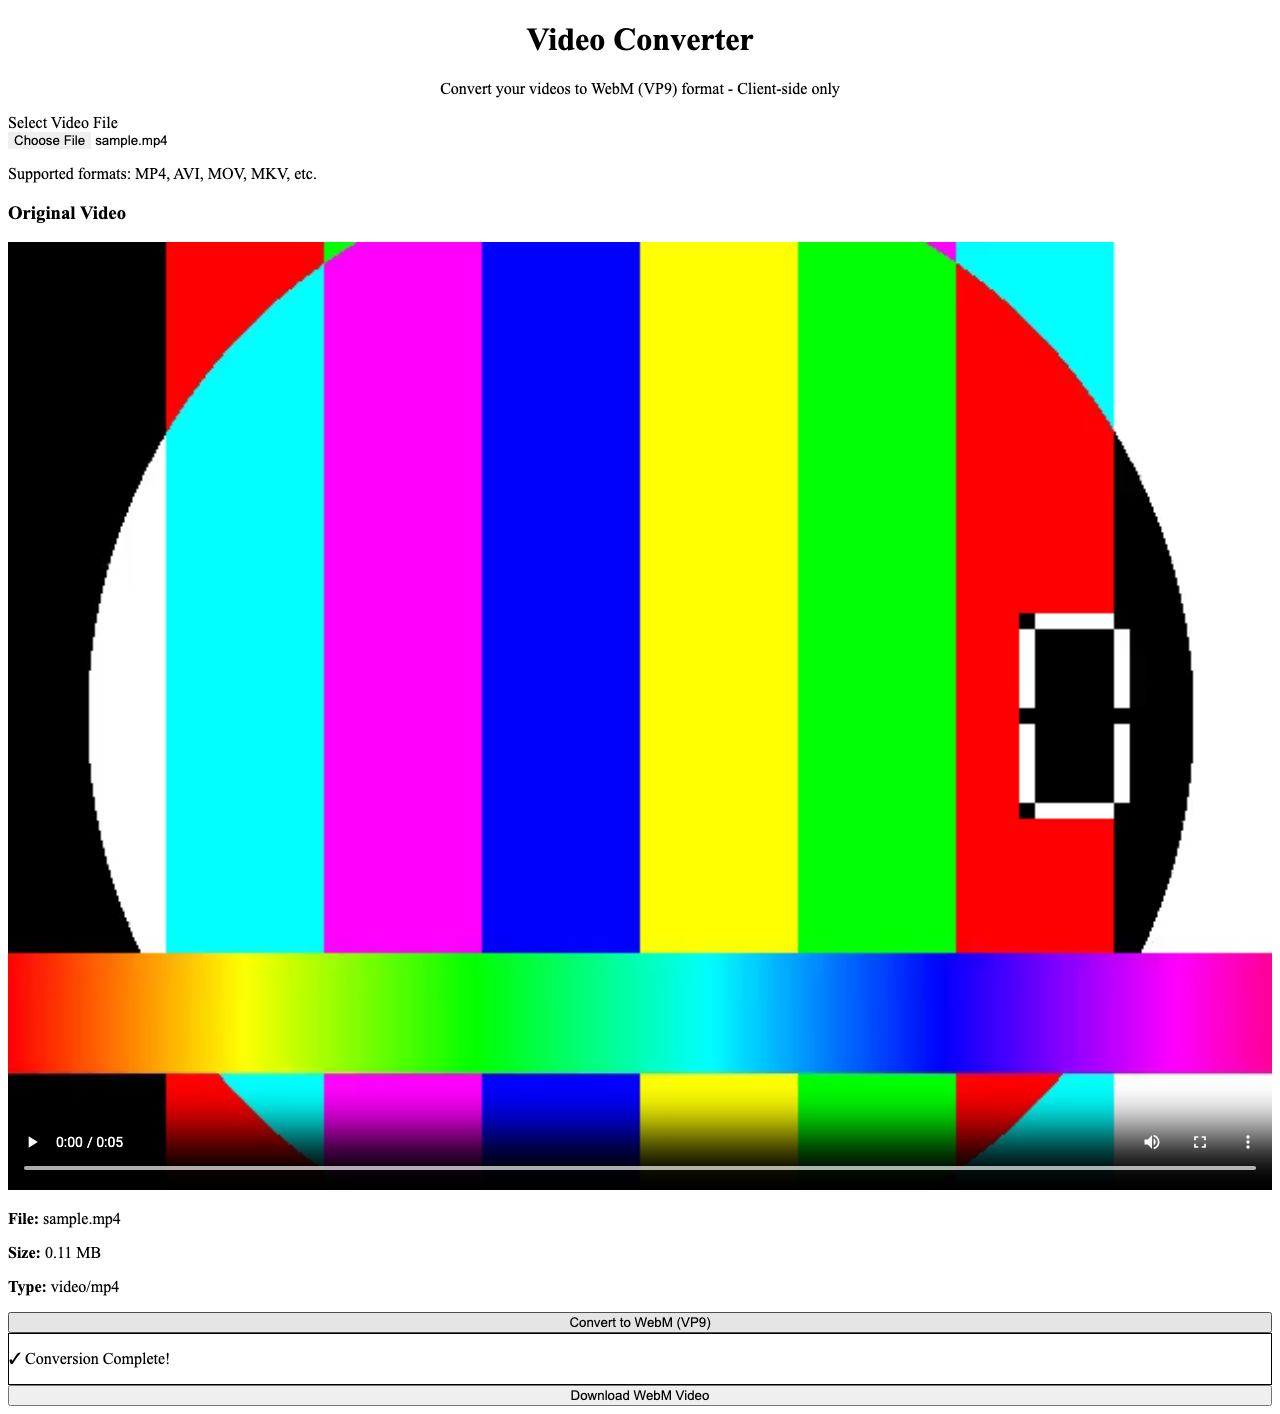
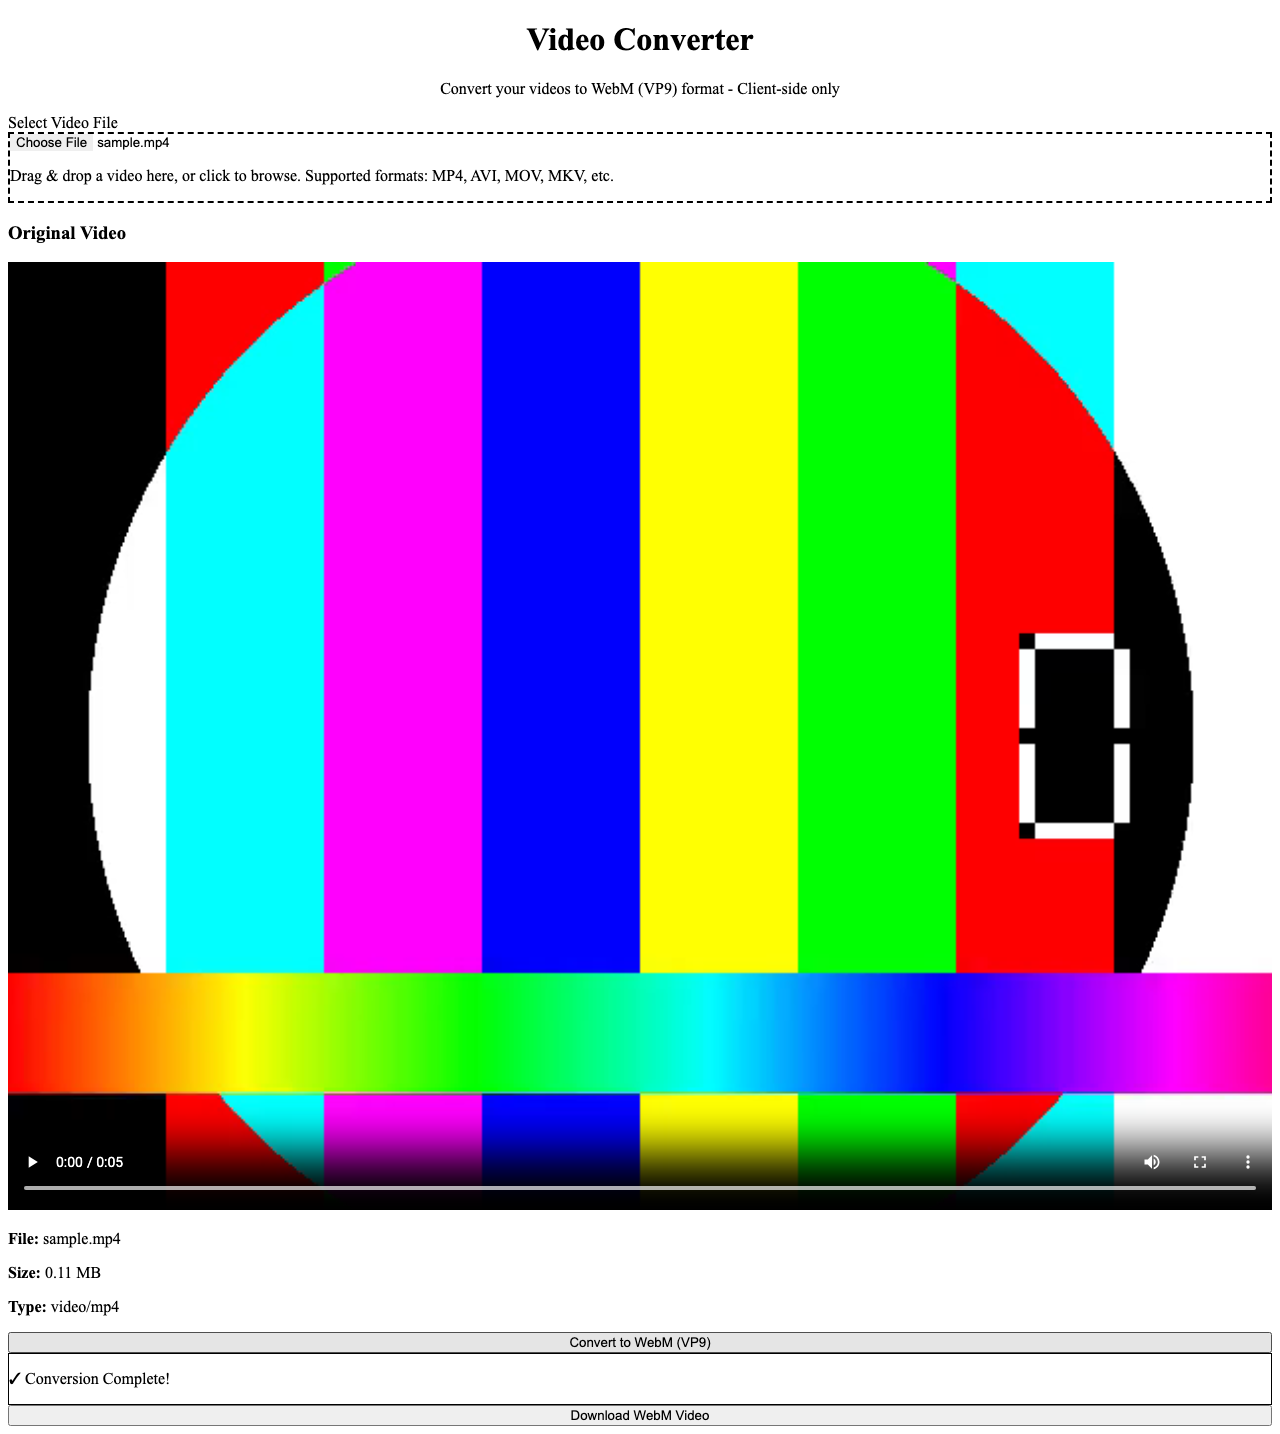
feat: add cancel functionality to video conversion process
- Implemented cancel method in VideoConverter to terminate ongoing conversions.
- Updated handleConvert function to enable/disable cancel button during conversion.
- Added event listener for cancel button to handle cancellation and reset UI state.
- Enhanced UI elements to include drop zone for drag-and-drop file selection.
- Improved user feedback by showing error messages and hiding progress on cancellation.

diff --git a/src/main.ts b/src/main.ts
@@ -2,10 +2,14 @@ import "./style.css";
 import { VideoConverter } from "./converter";
 import {
   getUIElements,
+  hideProgress,
   hideDownload,
   hideError,
   showError,
   showPreview,
+  setDropZoneActive,
+  setCancelEnabled,
+  setConvertBtnState,
   displayVideoInfo,
 } from "./ui";
 import { isValidVideoFile, createPreviewURL, displayVideoPreview } from "./fileHandler";
@@ -21,10 +25,18 @@ let convertedBlob: Blob | null = null;
 
 // Get UI elements
 const elements = getUIElements();
+setCancelEnabled(elements, false);
 
 // Event listeners
 if (elements.videoInput) {
   elements.videoInput.addEventListener("change", handleFileSelect);
+}
+
+if (elements.dropZone) {
+  elements.dropZone.addEventListener("dragenter", handleDragEnter);
+  elements.dropZone.addEventListener("dragover", handleDragOver);
+  elements.dropZone.addEventListener("dragleave", handleDragLeave);
+  elements.dropZone.addEventListener("drop", handleDrop);
 }
 
 if (elements.convertBtn) {
@@ -43,6 +55,10 @@ if (elements.downloadBtn) {
   });
 }
 
+if (elements.cancelBtn) {
+  elements.cancelBtn.addEventListener("click", handleCancel);
+}
+
 // Load FFmpeg on app init
 converter.load().catch((error) => {
   console.error("Failed to load FFmpeg:", error);
@@ -53,6 +69,49 @@ function handleFileSelect(event: Event): void {
   const input = event.target as HTMLInputElement;
   const file = input.files?.[0];
 
+  if (!file) return;
+
+  processSelectedFile(file);
+}
+
+function handleDragEnter(event: DragEvent): void {
+  event.preventDefault();
+  setDropZoneActive(elements, true);
+}
+
+function handleDragOver(event: DragEvent): void {
+  event.preventDefault();
+  setDropZoneActive(elements, true);
+}
+
+function handleDragLeave(): void {
+  setDropZoneActive(elements, false);
+}
+
+function handleDrop(event: DragEvent): void {
+  event.preventDefault();
+  setDropZoneActive(elements, false);
+
+  const file = event.dataTransfer?.files?.[0];
+  if (!file) return;
+
+  processSelectedFile(file);
+}
+
+function handleCancel(): void {
+  converter.cancel();
+  hideProgress(elements);
+  setCancelEnabled(elements, false);
+  setConvertBtnState(elements, "idle");
+  hideDownload(elements);
+  showError(elements, "Conversion canceled.");
+  converter.load().catch((error) => {
+    console.error("Failed to reload FFmpeg after cancel:", error);
+    showError(elements, "Failed to reload converter. Please refresh the page.");
+  });
+}
+
+function processSelectedFile(file: File): void {
   if (!file) return;
 
   // Validate file type
@@ -66,6 +125,8 @@ function handleFileSelect(event: Event): void {
   // Hide error and download sections
   hideError(elements);
   hideDownload(elements);
+  hideProgress(elements);
+  setCancelEnabled(elements, false);
 
   // Show preview section
   showPreview(elements);

diff --git a/src/ui.ts b/src/ui.ts
@@ -4,6 +4,7 @@
 
 export interface UIElements {
   videoInput: HTMLInputElement | null;
+  dropZone: HTMLDivElement | null;
   previewSection: HTMLDivElement | null;
   videoPreview: HTMLVideoElement | null;
   videoInfo: HTMLDivElement | null;
@@ -11,6 +12,7 @@ export interface UIElements {
   progressSection: HTMLDivElement | null;
   progressBar: HTMLDivElement | null;
   progressText: HTMLParagraphElement | null;
+  cancelBtn: HTMLButtonElement | null;
   downloadSection: HTMLDivElement | null;
   downloadBtn: HTMLButtonElement | null;
   errorSection: HTMLDivElement | null;
@@ -20,6 +22,7 @@ export interface UIElements {
 export function getUIElements(): UIElements {
   return {
     videoInput: document.querySelector<HTMLInputElement>("#video-input"),
+    dropZone: document.querySelector<HTMLDivElement>("#drop-zone"),
     previewSection: document.querySelector<HTMLDivElement>("#preview-section"),
     videoPreview: document.querySelector<HTMLVideoElement>("#video-preview"),
     videoInfo: document.querySelector<HTMLDivElement>("#video-info"),
@@ -27,6 +30,7 @@ export function getUIElements(): UIElements {
     progressSection: document.querySelector<HTMLDivElement>("#progress-section"),
     progressBar: document.querySelector<HTMLDivElement>("#progress-bar"),
     progressText: document.querySelector<HTMLParagraphElement>("#progress-text"),
+    cancelBtn: document.querySelector<HTMLButtonElement>("#cancel-btn"),
     downloadSection: document.querySelector<HTMLDivElement>("#download-section"),
     downloadBtn: document.querySelector<HTMLButtonElement>("#download-btn"),
     errorSection: document.querySelector<HTMLDivElement>("#error-section"),
@@ -41,6 +45,19 @@ export function showError(elements: UIElements, message: string): void {
   if (elements.errorMessage) {
     elements.errorMessage.textContent = message;
   }
+}
+
+export function setDropZoneActive(elements: UIElements, isActive: boolean): void {
+  if (!elements.dropZone) return;
+  elements.dropZone.classList.toggle("border-blue-500", isActive);
+  elements.dropZone.classList.toggle("bg-blue-50", isActive);
+}
+
+export function setCancelEnabled(elements: UIElements, enabled: boolean): void {
+  if (!elements.cancelBtn) return;
+  elements.cancelBtn.disabled = !enabled;
+  elements.cancelBtn.classList.toggle("opacity-50", !enabled);
+  elements.cancelBtn.classList.toggle("cursor-not-allowed", !enabled);
 }
 
 export function hideError(elements: UIElements): void {

diff --git a/index.html b/index.html
@@ -20,13 +20,21 @@
             <label for="video-input" class="block text-sm font-medium text-gray-700 mb-2">
               Select Video File
             </label>
-            <input
-              type="file"
-              id="video-input"
-              accept="video/*"
-              class="block w-full text-sm text-gray-500 file:mr-4 file:py-2 file:px-4 file:rounded-md file:border-0 file:text-sm file:font-semibold file:bg-blue-50 file:text-blue-700 hover:file:bg-blue-100 cursor-pointer"
-            />
-            <p class="mt-2 text-xs text-gray-500">Supported formats: MP4, AVI, MOV, MKV, etc.</p>
+            <div
+              id="drop-zone"
+              class="border-2 border-dashed border-gray-300 rounded-lg p-4 transition-colors duration-200"
+            >
+              <input
+                type="file"
+                id="video-input"
+                accept="video/*"
+                class="block w-full text-sm text-gray-500 file:mr-4 file:py-2 file:px-4 file:rounded-md file:border-0 file:text-sm file:font-semibold file:bg-blue-50 file:text-blue-700 hover:file:bg-blue-100 cursor-pointer"
+              />
+              <p class="mt-2 text-xs text-gray-500">
+                Drag & drop a video here, or click to browse. Supported formats: MP4, AVI, MOV,
+                MKV, etc.
+              </p>
+            </div>
           </div>
 
           <!-- Preview Section -->
@@ -53,6 +61,13 @@
               ></div>
             </div>
             <p id="progress-text" class="mt-2 text-sm text-gray-600 text-center">0%</p>
+            <button
+              id="cancel-btn"
+              class="mt-4 w-full bg-gray-100 hover:bg-gray-200 text-gray-700 font-semibold py-2 px-4 rounded-lg transition-colors duration-200"
+              type="button"
+            >
+              Cancel Conversion
+            </button>
           </div>
 
           <!-- Download Section -->

diff --git a/src/conversionManager.ts b/src/conversionManager.ts
@@ -9,6 +9,7 @@ import {
   hideError,
   hideProgress,
   setConvertBtnState,
+  setCancelEnabled,
   showDownload,
   showError,
   showProgress,
@@ -35,6 +36,7 @@ export async function handleConvert(
 
   // Show progress section
   showProgress(elements);
+  setCancelEnabled(elements, true);
 
   // Hide download section
   hideDownload(elements);
@@ -62,6 +64,7 @@ export async function handleConvert(
 
         // Re-enable convert button
         setConvertBtnState(elements, "idle");
+        setCancelEnabled(elements, false);
 
         // Notify completion
         onConversionComplete(convertedBlob);
@@ -71,6 +74,7 @@ export async function handleConvert(
         showError(elements, `Conversion failed: ${error}`);
         hideProgress(elements);
         setConvertBtnState(elements, "idle");
+        setCancelEnabled(elements, false);
       },
     );
   } catch (error) {
@@ -78,6 +82,7 @@ export async function handleConvert(
     showError(elements, `Conversion failed: ${errorMsg}`);
     hideProgress(elements);
     setConvertBtnState(elements, "idle");
+    setCancelEnabled(elements, false);
   }
 }
 

diff --git a/src/converter.ts b/src/converter.ts
@@ -181,4 +181,18 @@ export class VideoConverter {
       this.worker = null;
     }
   }
+
+  cancel() {
+    if (this.worker) {
+      this.worker.terminate();
+      this.worker = null;
+    }
+
+    this.isLoaded = false;
+    this.loadPromise = null;
+    this.loadedResolve = undefined;
+    this.loadedReject = undefined;
+
+    this.initWorker();
+  }
 }

diff --git a/implementation.md b/implementation.md
@@ -4,7 +4,7 @@
 
 ✅ **Phase 1: Complete** - Project setup with 5/5 tests passing  
 ✅ **Phase 2: Complete** - Core FFmpeg integration with 15/15 tests passing  
-⏳ **Phase 3: Ready** - User experience and error handling enhancements  
+🔧 **Phase 3: In Progress** - User experience and error handling enhancements  
 ⏳ **Phase 4: Ready** - Performance optimization and edge cases
 
 ## Key Achievement: FFmpeg Initialization Race Condition Fixed
